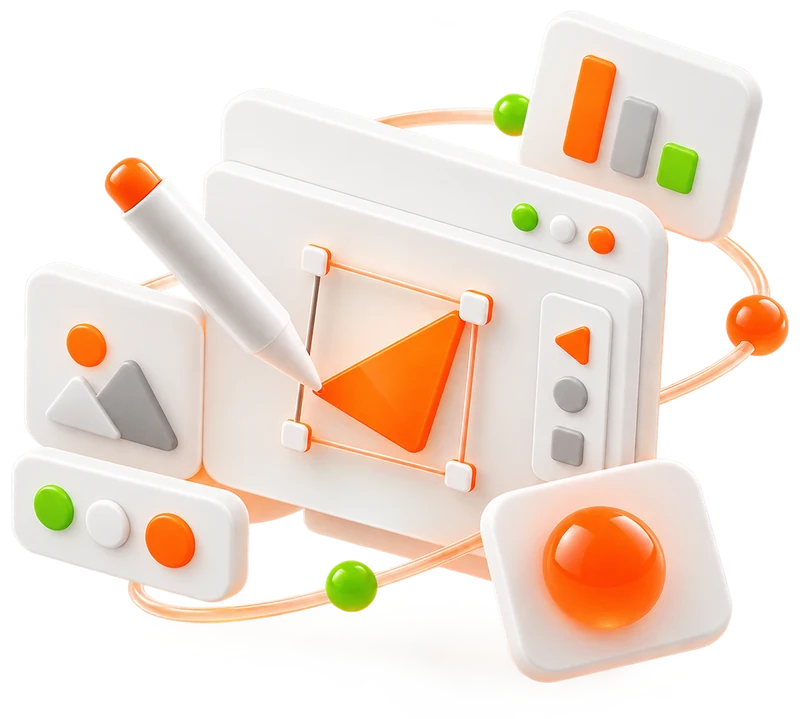
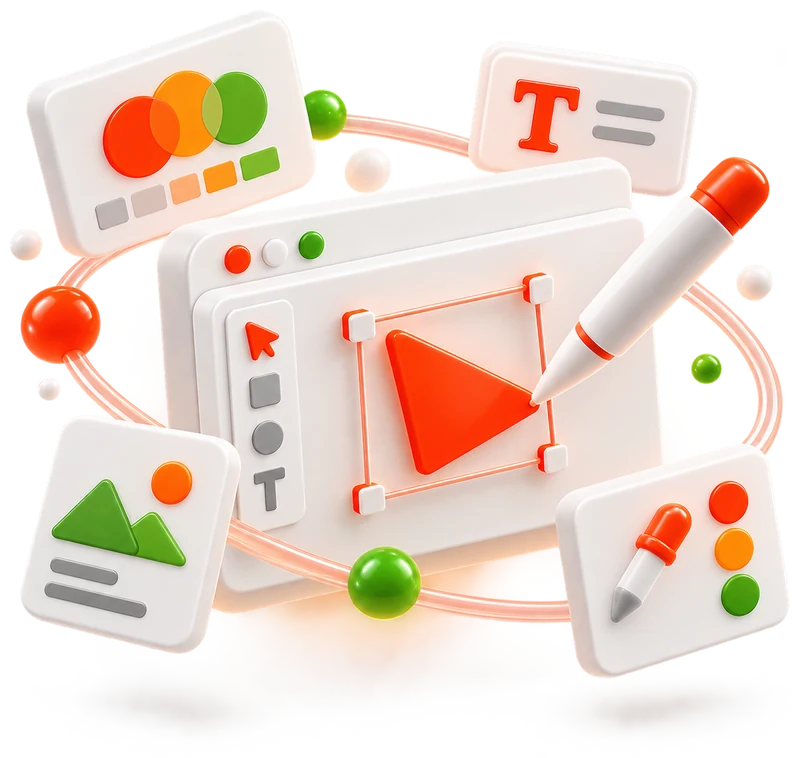
Big idea: new Design illustration
Claude-Session: https://claude.ai/code/session_01V2kh93o219NzAituSXsecb

diff --git a/index.html b/index.html
@@ -135,7 +135,7 @@
     <!-- one picture per word; set data-src on a slot to use the real file -->
     <div class="idea-art" id="ideaArt">
       <figure class="ph idea-pic on" data-ph="render" data-src="assets/img/idea-think.webp" data-alt="A glowing brain with a lit bulb above it, surrounded by research, image and text cards"></figure>
-      <figure class="ph idea-pic" data-ph="render" data-src="assets/img/idea-design.webp" data-alt="Design tools around a canvas: a pen drawing a shape, image, layers and colour swatches"></figure>
+      <figure class="ph idea-pic" data-ph="render" data-src="assets/img/idea-design.webp" data-alt="A design canvas with a pen drawing a shape, surrounded by colour, type, image and palette cards"></figure>
       <figure class="ph idea-pic" data-ph="render" data-src="assets/img/idea-build.webp" data-alt="A code block at the centre, wired to a terminal, a checklist, settings and a test flask"></figure>
       <figure class="ph idea-pic" data-ph="render" data-src="assets/img/idea-move.webp" data-alt="A rocket launching from clouds, surrounded by rising charts"></figure>
     </div>
